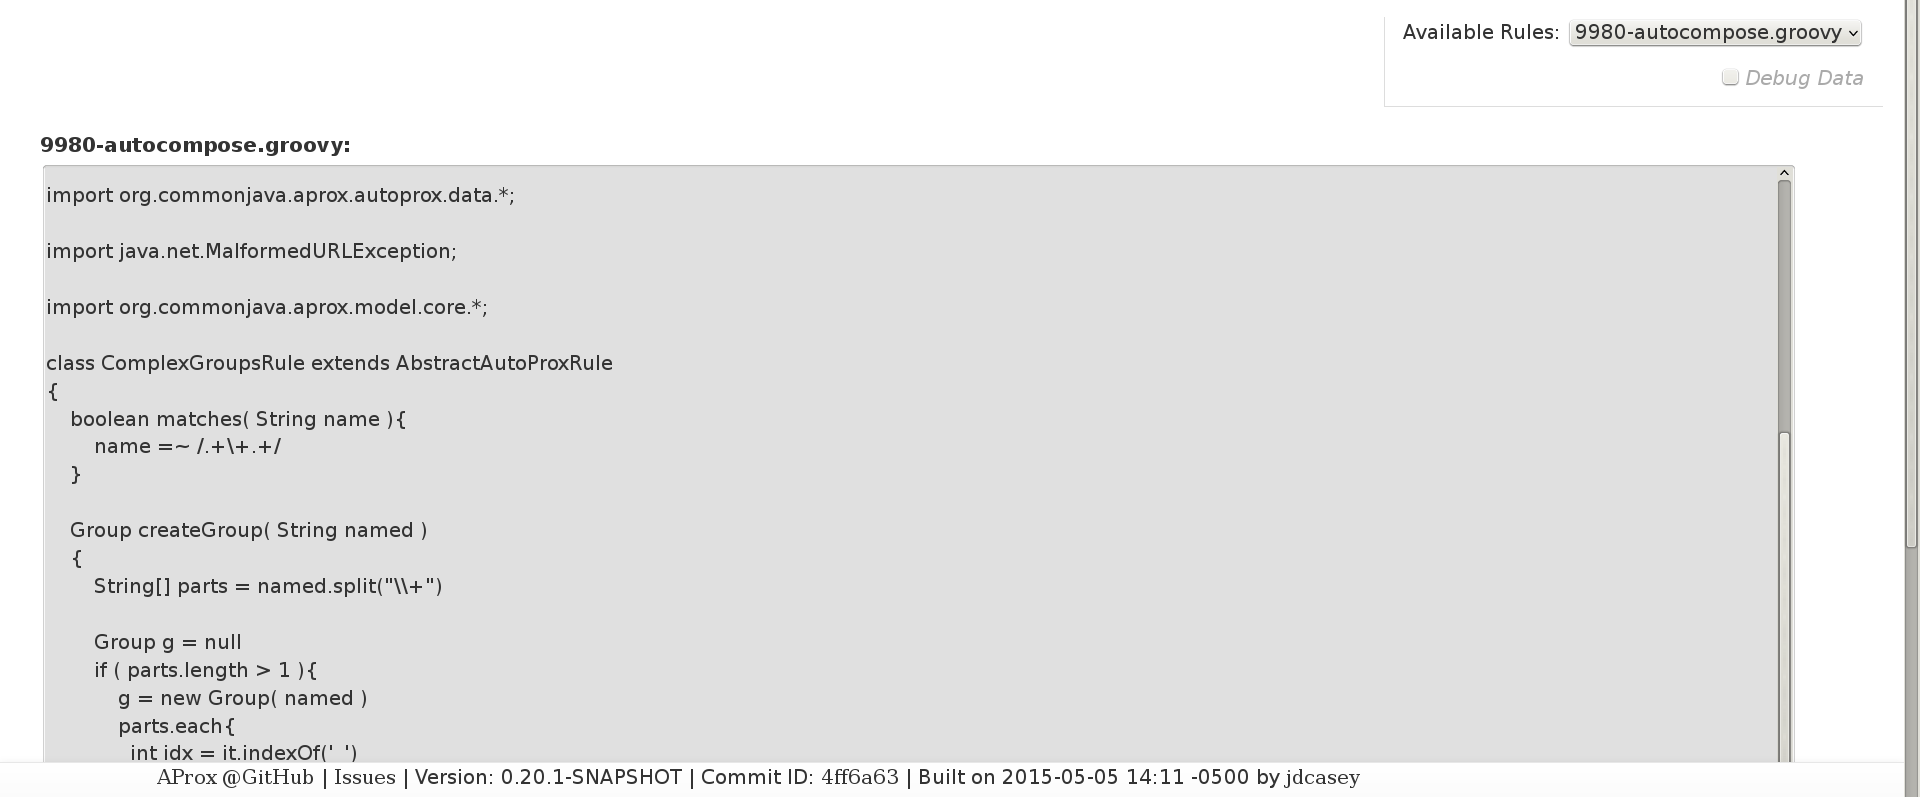
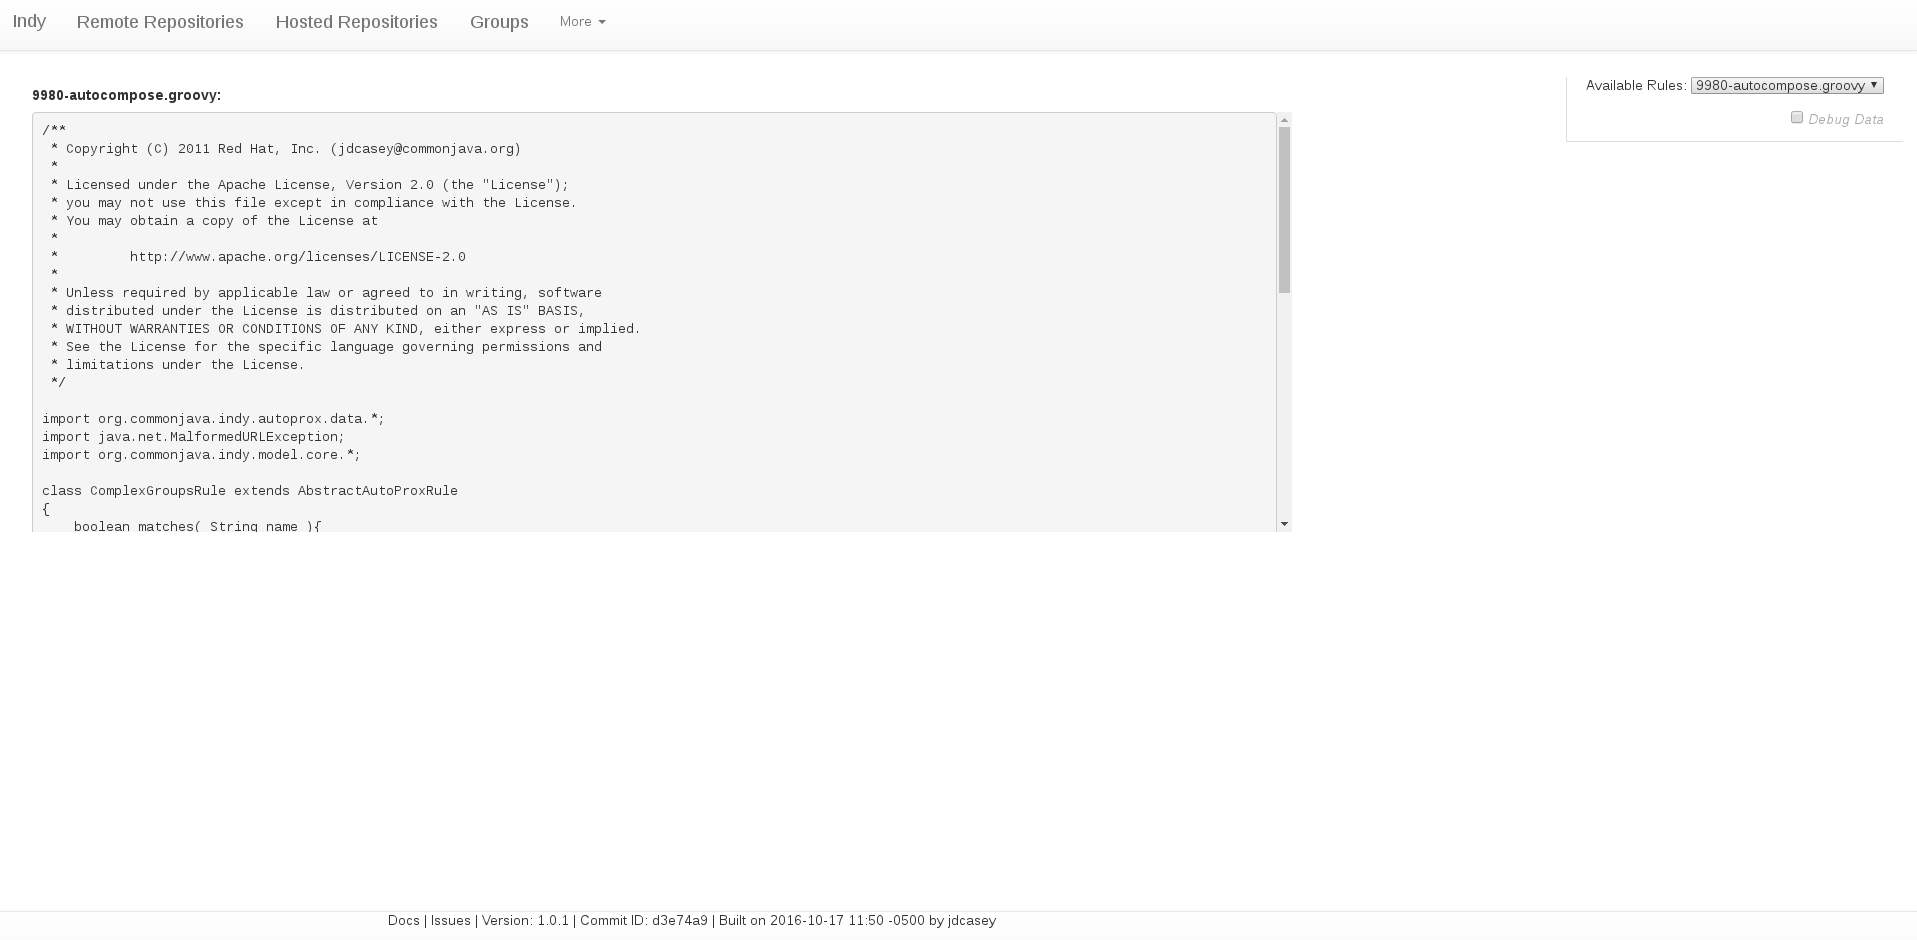
NOS-463 [github] [DOCS] Update user's guide screen captures for Indy rename

diff --git a/user/addons/autoprox/index.md b/user/addons/autoprox/index.md
@@ -186,11 +186,11 @@ Most of the real work done by Autoprox is automatic, and decorates existing func
 
 In most deployments, it won't be all that simple to login to the Indy server and inspect your Autoprox templates directly. While you can get your own copy - and even branch and modify them - if you're using the [Revisions Data-Versioning Add-On](revisions-addon.html), it's often simpler to just go look at the templates (aka rules) through your Indy web UI's Autoprox Rule Browser, located under the `More > AutoProx Rules` menu at the top.
 
-[![AutoProx Rule Browser Menu](grabs/autoprox-rule-browser-menu.png)](grabs/autoprox-rule-browser-menu.png)
+[![AutoProx Rule Browser Menu]({{ site.baseurl }}/user/grabs/autoprox-rule-browser-menu.png)]({{ site.baseurl }}/user/grabs/autoprox-rule-browser-menu.png)
 
 The rule browser gives you a selectable view of all the templates available on your Indy instance. Currently, this feature is restricted to read-only access, but a full CRUD-enabled version is [planned](https://github.com/Commonjava/indy/issues/120).
 
-[![AutoProx Rule Browser](grabs/autoprox-rule-browser.png)](grabs/autoprox-rule-browser.png)
+[![AutoProx Rule Browser]({{ site.baseurl }}/user/grabs/autoprox-rule-browser.png)]({{ site.baseurl }}/user/grabs/autoprox-rule-browser.png)
 
 #### Autoprox Calculator
 
@@ -198,22 +198,22 @@ Whenever you have string-matching of any sort, it's a good idea to have some way
 
 To help users understand how their templates are actually used, Autoprox adds a calculator function to the web UI. The Autoprox Calculator is located under `More > AutoProx Calculator` menu at the top.
 
-[![AutoProx Calculator Menu](grabs/autoprox-calc-menu.png)](grabs/autoprox-calc-menu.png)
+[![AutoProx Calculator Menu]({{ site.baseurl }}/user/grabs/autoprox-calc-menu.png)]({{ site.baseurl }}/user/grabs/autoprox-calc-menu.png)
 
 The first thing you'll be presented with in this calculator is its control panel, on the right. You can select what type of store you want to test, and enter the name you want to check.
 
-[![AutoProx Calculator Control Panel](grabs/autoprox-calc-ctl.png)](grabs/autoprox-calc-ctl.png)
+[![AutoProx Calculator Control Panel]({{ site.baseurl }}/user/grabs/autoprox-calc-ctl.png)]({{ site.baseurl }}/user/grabs/autoprox-calc-ctl.png)
 
 
 Having entered this information, the next step is to click `Calculate`. If one of your templates matched on the name given and returned a non-null result, that result will be displayed. Otherwise, you'll get a message saying `Nothing was created`.
 
 If you're testing group creation, you might see something like this:
 
-[![AutoProx Calculator Collapsed Group Result](grabs/autoprox-calc-result-collapsed.png)](grabs/autoprox-calc-result-collapsed.png)
+[![AutoProx Calculator Collapsed Group Result]({{ site.baseurl }}/user/grabs/autoprox-calc-result-collapsed.png)]({{ site.baseurl }}/user/grabs/autoprox-calc-result-collapsed.png)
 
 If the creation of that group would trigger any further groups or repositories to be created, those are listed at the bottom. If you want to see details about these additional stores, you can click on each of these to expand them:
 
-[![AutoProx Calculator Expanded Group Result](grabs/autoprox-calc-result-expanded.png)](grabs/autoprox-calc-result-collapsed.png)
+[![AutoProx Calculator Expanded Group Result]({{ site.baseurl }}/user/grabs/autoprox-calc-result-expanded.png)]({{ site.baseurl }}/user/grabs/autoprox-calc-result-collapsed.png)
 
 From here, you have the option to create the resulting structure using the `Create` button. This functions as a sort of save button for the tested store name, and will have the same effect as if you had simply started using a URL to that store name. Autoprox will create the stores, and they will be available for immediate use.
 

diff --git a/user/java-client-basics.md b/user/java-client-basics.md
@@ -13,7 +13,7 @@ If you're using Apache Maven to build, you can add the client API to your projec
     <dependency>
       <groupId>org.commonjava.indy</groupId>
       <artifactId>indy-client-core-java</artifactId>
-      <version>0.20.0</version>
+      <version>1.0.1</version>
     </dependency>
 
 Once you have the dependency added to your project, you'll need to setup a new instance of `org.commonjava.indy.client.core.Indy` in order to talk to your Indy server. Something like this should get you started:

diff --git a/user/quickstart.md b/user/quickstart.md
@@ -13,7 +13,7 @@ First, [download]({{site.data.urls.savantUrl}}) the Indy savant distribution tar
 
 When the download completes, the following commands will unpack the Indy Savant distribution, change into the unpacked directory, and launch it.
 
-    $ tar -zxvf indy-launcher-savant-0.19.2-launcher.tar.gz
+    $ tar -zxvf indy-launcher-savant-1.0.1-launcher.tar.gz
     $ cd indy
     $ ./bin/indy.sh
 

diff --git a/user/addons/folo/index.md b/user/addons/folo/index.md
@@ -120,7 +120,7 @@ Now, let's try the same example using Java:
         "commonjava-4.pom";
 
     final String uploadPath = "/org/commonjava/indy/indy-parent/" + 
-        "0.20.0/indy-parent-0.20.0.pom";
+        "0.20.0/indy-parent-1.0.1.pom";
     
     IndyFoloContentClientModule content = new IndyFoloContentClientModule();
     IndyFoloAdminClientModule admin = new IndyFoloAdminClientModule();
